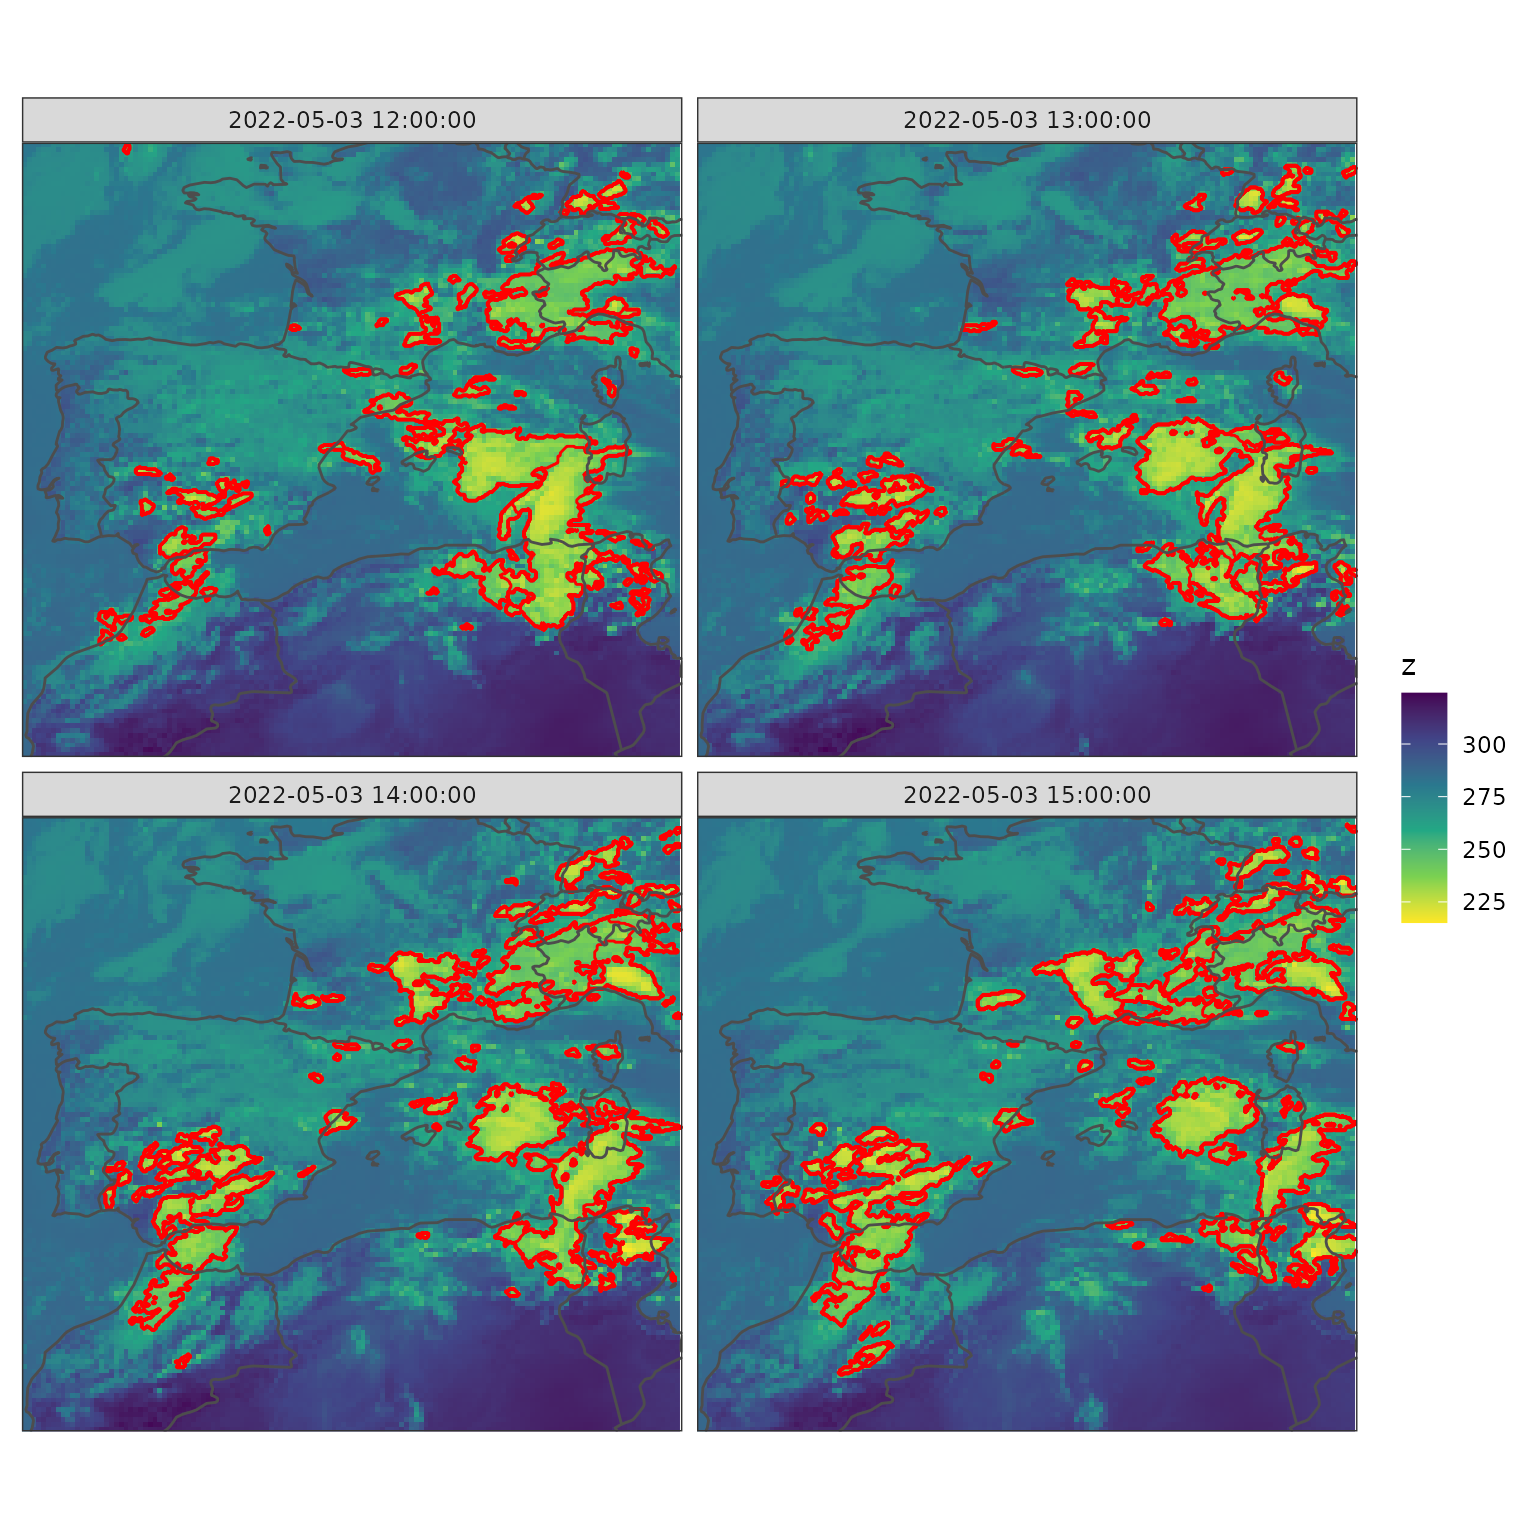
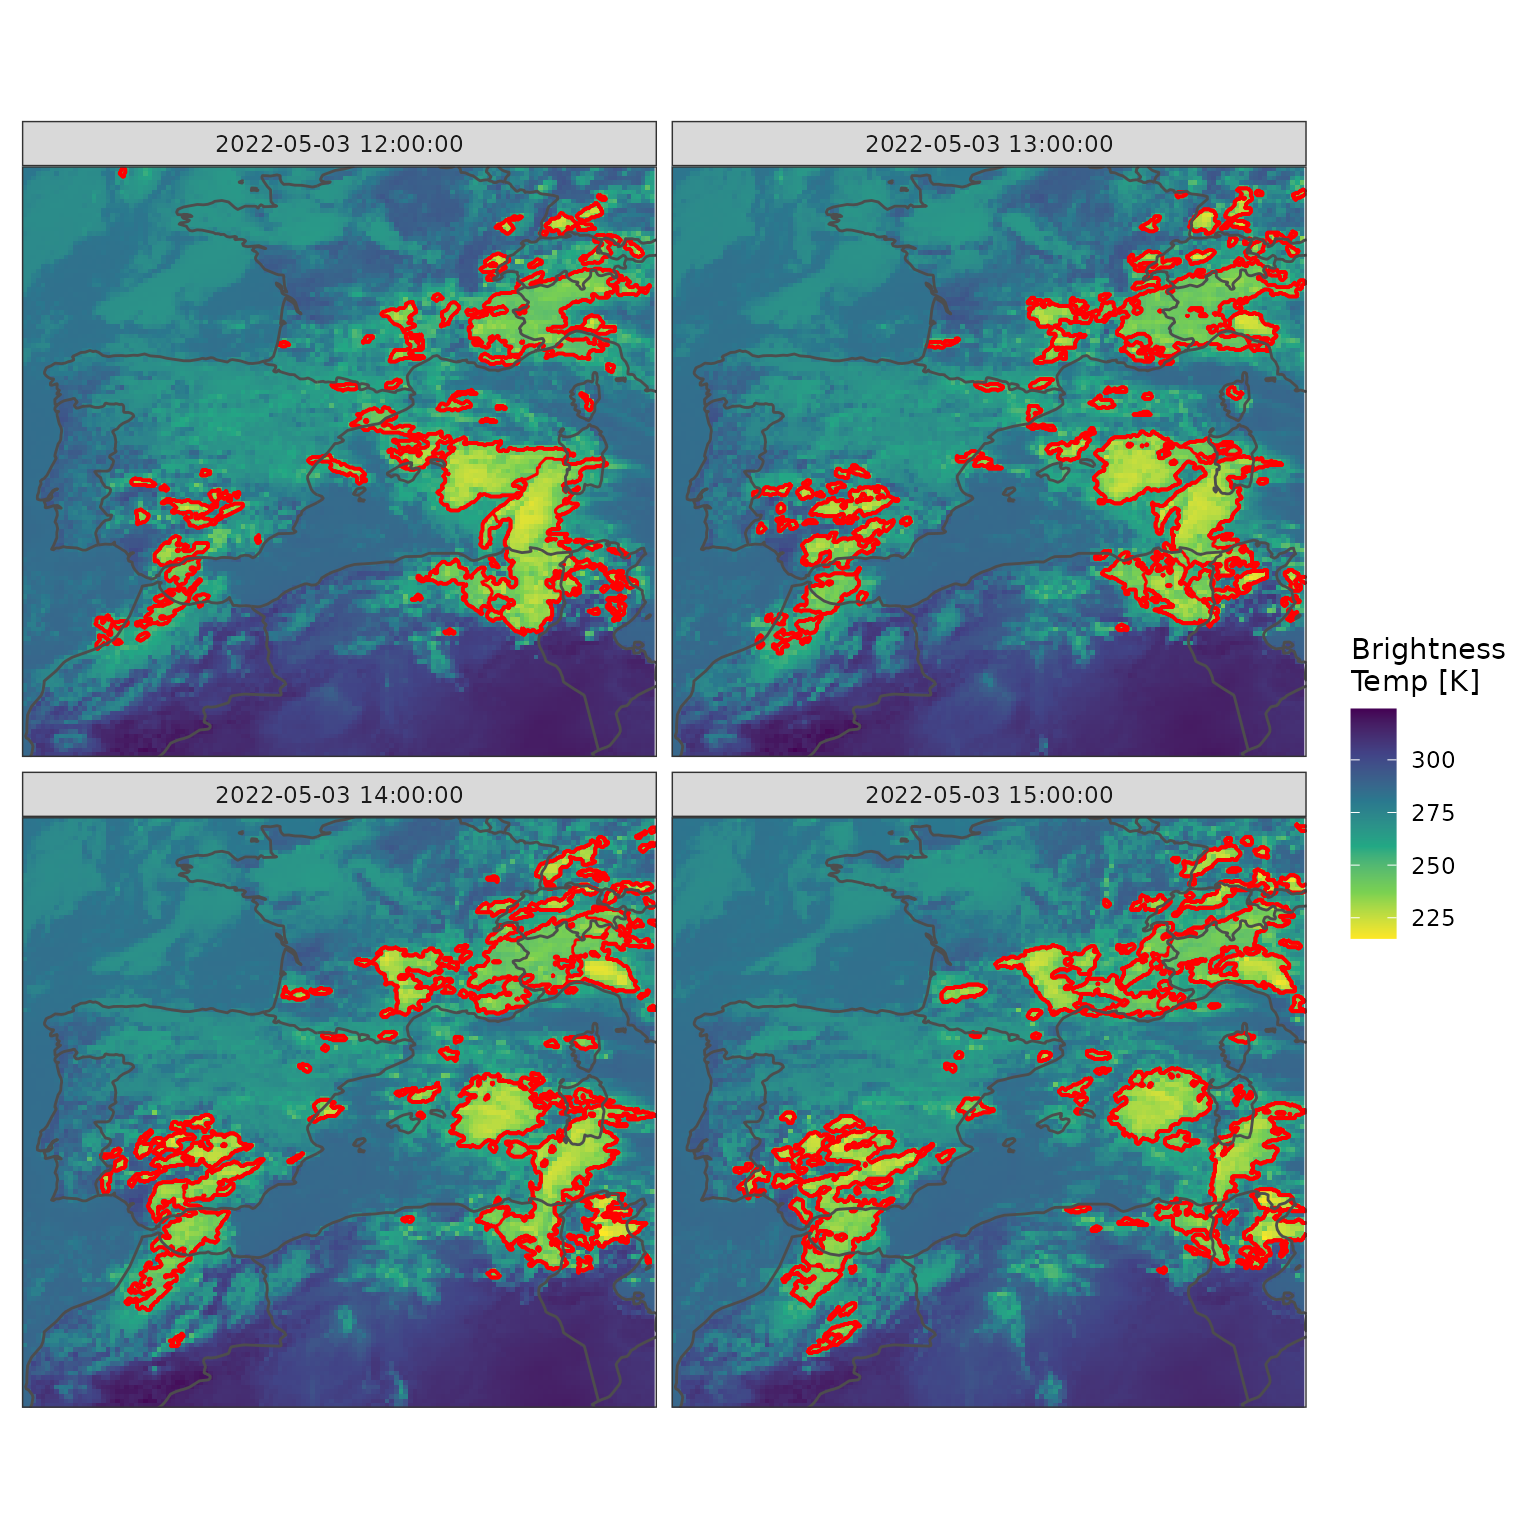
Rebuild articles

diff --git a/docs/articles/tracking_model_OLR.html b/docs/articles/tracking_model_OLR.html
@@ -249,7 +249,7 @@ times.</p>
 <span>  <span class="op">)</span> <span class="op">+</span> </span>
 <span>  <span class="fu"><a href="https://ggplot2.tidyverse.org/reference/geom_path.html" class="external-link">geom_path</a></span><span class="op">(</span><span class="fu"><a href="https://ggplot2.tidyverse.org/reference/aes.html" class="external-link">aes</a></span><span class="op">(</span><span class="va">x</span>, <span class="va">y</span><span class="op">)</span>, <span class="va">countries</span>, colour <span class="op">=</span> <span class="st">"grey30"</span><span class="op">)</span> <span class="op">+</span></span>
 <span>  <span class="fu"><a href="https://ggplot2.tidyverse.org/reference/facet_wrap.html" class="external-link">facet_wrap</a></span><span class="op">(</span><span class="op">~</span><span class="va">valid_dttm</span><span class="op">)</span> <span class="op">+</span></span>
-<span>  <span class="fu"><a href="https://ggplot2.tidyverse.org/reference/scale_viridis.html" class="external-link">scale_fill_viridis_c</a></span><span class="op">(</span>direction <span class="op">=</span> <span class="op">-</span><span class="fl">1</span><span class="op">)</span> <span class="op">+</span></span>
+<span>  <span class="fu"><a href="https://ggplot2.tidyverse.org/reference/scale_viridis.html" class="external-link">scale_fill_viridis_c</a></span><span class="op">(</span><span class="fu"><a href="https://rdrr.io/r/base/bquote.html" class="external-link">bquote</a></span><span class="op">(</span><span class="fu">atop</span><span class="op">(</span><span class="va">OLR</span>,<span class="st">"["</span><span class="op">*</span><span class="va">W.m</span><span class="op">^</span><span class="op">{</span><span class="op">-</span><span class="fl">2</span><span class="op">}</span><span class="op">*</span><span class="st">"]"</span><span class="op">)</span><span class="op">)</span>, direction <span class="op">=</span> <span class="op">-</span><span class="fl">1</span><span class="op">)</span> <span class="op">+</span></span>
 <span>  <span class="fu"><a href="https://ggplot2.tidyverse.org/reference/coord_fixed.html" class="external-link">coord_equal</a></span><span class="op">(</span>expand <span class="op">=</span> <span class="cn">FALSE</span><span class="op">)</span> <span class="op">+</span></span>
 <span>  <span class="fu">theme_harp_map</span><span class="op">(</span><span class="op">)</span></span></code></pre></div>
 <p><img src="tracking_model_OLR_files/figure-html/plot-segment-mask-1.png" width="768" style="display: block; margin: auto;"></p>

diff --git a/docs/articles/tracking_seviri_brightness_temp.html b/docs/articles/tracking_seviri_brightness_temp.html
@@ -240,7 +240,7 @@ thresholds of 250, 240, 230 and 220 K.</p>
 <span>  <span class="op">)</span> <span class="op">+</span> </span>
 <span>  <span class="fu"><a href="https://ggplot2.tidyverse.org/reference/geom_path.html" class="external-link">geom_path</a></span><span class="op">(</span><span class="fu"><a href="https://ggplot2.tidyverse.org/reference/aes.html" class="external-link">aes</a></span><span class="op">(</span><span class="va">x</span>, <span class="va">y</span><span class="op">)</span>, <span class="va">countries</span>, colour <span class="op">=</span> <span class="st">"grey30"</span><span class="op">)</span> <span class="op">+</span></span>
 <span>  <span class="fu"><a href="https://ggplot2.tidyverse.org/reference/facet_wrap.html" class="external-link">facet_wrap</a></span><span class="op">(</span><span class="op">~</span><span class="va">valid_dttm</span><span class="op">)</span> <span class="op">+</span></span>
-<span>  <span class="fu"><a href="https://ggplot2.tidyverse.org/reference/scale_viridis.html" class="external-link">scale_fill_viridis_c</a></span><span class="op">(</span>direction <span class="op">=</span> <span class="op">-</span><span class="fl">1</span><span class="op">)</span> <span class="op">+</span></span>
+<span>  <span class="fu"><a href="https://ggplot2.tidyverse.org/reference/scale_viridis.html" class="external-link">scale_fill_viridis_c</a></span><span class="op">(</span><span class="st">"Brightness\nTemp [K]"</span>, direction <span class="op">=</span> <span class="op">-</span><span class="fl">1</span><span class="op">)</span> <span class="op">+</span></span>
 <span>  <span class="fu"><a href="https://ggplot2.tidyverse.org/reference/coord_fixed.html" class="external-link">coord_equal</a></span><span class="op">(</span>expand <span class="op">=</span> <span class="cn">FALSE</span><span class="op">)</span> <span class="op">+</span></span>
 <span>  <span class="fu">theme_harp_map</span><span class="op">(</span><span class="op">)</span></span></code></pre></div>
 <p><img src="tracking_seviri_brightness_temp_files/figure-html/plot-segments-1.png" width="768" style="display: block; margin: auto;"></p>
